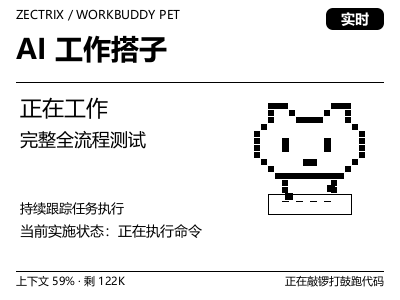
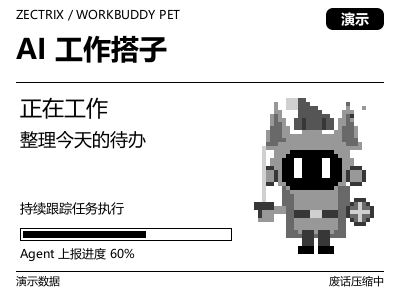
文档：首页配图换成新宠物形象（工作状态，演示数据）

diff --git a/README.md b/README.md
@@ -3,10 +3,11 @@
 让像素宠物显示真实的 WorkBuddy 任务状态。作为独立本机程序运行于 Windows，当前支持 Note 4。
 设备固件必须与本地推送 SDK 配套；`zectrix-sdk` 0.1.0 对应固件 3.7.2。Note 4C 不在兼容范围内。
 
-![宠物实机画面：任务进行中](docs/preview.png)
+![宠物画面：任务进行中](docs/preview.png)
 
-*实机画面，原尺寸 400×300。一次真实推送：任务进行中、宠物在工作，底部是上下文占用与花絮。
-重新生成：`workbuddy-pet preview --out docs/preview.png`。*
+*原尺寸 400×300（图中是演示数据，实机渲染与此一致）。左边是任务状态与进度，右边宠物在工作：
+黑面罩后是白色竖条眼，一手剑一手盾；底部是上下文占用与花絮。
+重新生成：`workbuddy-pet preview --demo working --out docs/preview.png`。*
 
 ## 与 SDK 的边界
 
